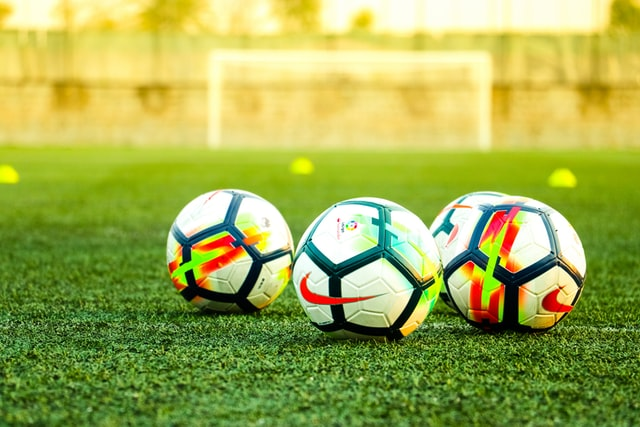
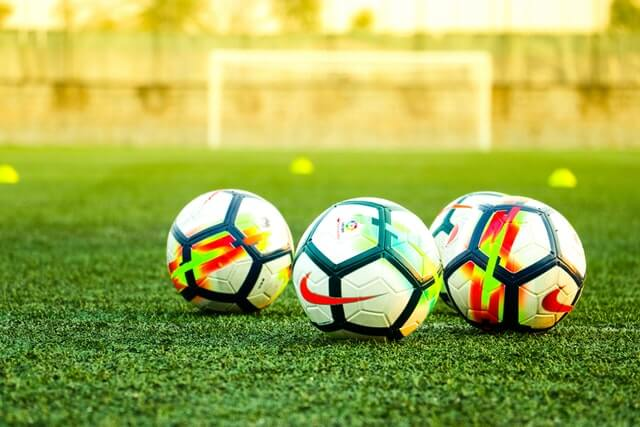
Recorte y redimension de imagenes
- Se redimensionaron algunas imagenes a un tamaño menor para que no
carguen una imagen grande cuando se vea pequeña
- Se cortaron algunas imagenes para que encajen con el espacio que
requieren
- Se establecio un ancho maximo a los productos y a las noticias para
que sus cards no se estiren demasiado.

diff --git a/index.html b/index.html
@@ -87,15 +87,21 @@
         <article class="i-b sm12 md4 lg2 mb_3 pv_15 md-mb_2 lg-mr_2 lg-mb_0 products__product">
           <a href="#products">
             <div class="m_auto mb_1 product__picture">
-              <img src="img/ball.png" alt="Balón UCL" class="product__img" loading="lazy">
-            </div>
+              <picture>
+                <source media="(max-width: 768px)" srcset="img/ball-w220.png">
+                <img src="img/ball.png" alt="Balón UCL" class="product__img" loading="lazy">
+              </picture>
+              </div>
             <h3 class="lg-h5 product__name">Balón UCL</h3>
           </a>
         </article>
         <article class="i-b sm12 md4 lg2 mb_3 pv_15 md-mr_2 lg-mb_0 products__product">
           <a href="#products">
             <div class="m_auto mb_1 product__picture">
-              <img src="img/thermo.png" alt="Termo 1lt" class="product__img" loading="lazy">
+              <picture>
+                <source media="(max-width: 767px)" srcset="img/thermo-w220.png">
+                <img src="img/thermo.png" alt="Termo 1lt" class="product__img" loading="lazy">
+              </picture>
             </div>
             <h3 class="lg-h5 product__name">Termo 1lt</h3>
           </a>
@@ -103,7 +109,11 @@
         <article class="i-b sm12 md4 lg2 mb_3 pv_15 lg-mb_0 products__product">
           <a href="#products">
             <div class="m_auto mb_1 product__picture">
-              <img src="img/scarf.jpeg" alt="Bufanda" class="product__img" loading="lazy">
+              <picture>
+                <source media="(max-width: 767px)" srcset="img/scarf-w220.jpeg">
+                <source media="(min-width: 768px)" srcset="img/scarf-w115.jpeg">
+                <img src="img/scarf.jpeg" alt="Bufanda" class="product__img" loading="lazy">
+              </picture>
             </div>
             <h3 class="lg-h5 product__name">Bufanda</h3>
           </a>
@@ -116,9 +126,13 @@
     <div class="container">
       <h2 class="mb_3 h1 center">Últimas noticias</h2>
       <div class="lg-flex lg-jc-space-around latest-news__cards">
-        <article class="card md-flex lg-block sm12 lg4 pb_15 mb_2 md-pb_0 lg-mh_1 lg-mb_0 news__card">
+        <article class="card md-flex lg-block sm12 lg4 m_auto pb_15 mb_2 md-pb_0 lg-mh_1 lg-mb_0 news__card">
           <div class="lg12 md5 card__picture">
-            <img src="img/news1.jpg" alt="Hospital" class="card__img" loading="lazy">
+            <picture>
+              <source media="(max-width: 767px)" srcset="img/news1-w440.jpg">
+              <source media="(min-width: 768px)" srcset="img/news1-w300.jpg">
+              <img src="img/news1.jpg" alt="Hospital" class="card__img" loading="lazy">
+            </picture>
           </div>
           <div class="md7 lg12 pv_05 ph_1 md-pv_1 md-ph_15 center md-left card__text">
             <div class="mb_15 left">
@@ -129,9 +143,13 @@
             <a href="#news" class="btn btn--primary pv_05 ph_3 h4 lg-h5 lg-center">Leer más</a>
           </div>
         </article>
-        <article class="card md-flex lg-block sm12 lg4 pb_15 mb_2 md-pb_0 lg-mh_1 lg-mb_0 news__card">
+        <article class="card md-flex lg-block sm12 lg4 m_auto pb_15 mb_2 md-pb_0 lg-mh_1 lg-mb_0 news__card">
           <div class="lg12 md5 card__picture">
-            <img src="img/news2.jpg" alt="boletos de entrada al estadio" class="card__img" loading="lazy">
+            <picture>
+              <source media="(max-width: 767px)" srcset="img/news2-w440.jpg">
+              <source media="(min-width: 768px)" srcset="img/news2-w300.jpg">
+              <img src="img/news2.jpg" alt="boletos de entrada al estadio" class="card__img" loading="lazy">
+            </picture>
           </div>
           <div class="md7 lg12 pv_05 ph_1 md-pv_1 md-ph_15 center md-left card__text">
             <div class="mb_15 left">
@@ -142,9 +160,13 @@
             <a href="#news" class="btn btn--primary pv_05 ph_3 h4 lg-h5 lg-center">Leer más</a>
           </div>
         </article>
-        <article class="card md-flex lg-block sm12 lg4 pb_15 mb_2 md-pb_0 lg-mh_1 lg-mb_0 news__card">
+        <article class="card md-flex lg-block sm12 lg4 m_auto pb_15 mb_2 md-pb_0 lg-mh_1 lg-mb_0 news__card">
           <div class="lg12 md5 card__picture">
-            <img src="img/news3.jpg" alt="copa del mundial" class="card__img" loading="lazy">
+            <picture>
+              <source media="(max-width: 767px)" srcset="img/news3-w440.jpg">
+              <source media="(min-width: 768px)" srcset="img/news3-w300.jpg">
+              <img src="img/news3.jpg" alt="copa del mundial" class="card__img" loading="lazy">
+            </picture>
           </div>
           <div class="md7 lg12 pv_05 ph_1 md-pv_1 md-ph_15 center md-left card__text">
             <div class="mb_15 left">
@@ -164,7 +186,12 @@
         <h2 class="mb_3 h1 center gallery__title">Galería</h2>
         <div class="gallery-container">
           <div class="gallery__item">
-            <img src="img/gallery1.jpg" alt="jugadores disputando un balón" class="gallery__img" loading="lazy">
+            <picture>
+              <source media="(max-width: 479px)"  srcset="img/gallery1-w140.jpg">
+              <source media="(max-width: 767px)"  srcset="img/gallery1-w155.jpg">
+              <source media="(min-width: 1024px)" srcset="img/gallery1-w255.jpg">
+              <img src="img/gallery1.jpg" alt="jugadores disputando un balón" class="gallery__img" loading="lazy">
+            </picture>
           </div>
           <div class="gallery__item">
             <img src="img/gallery2.jpg" alt="jugador por la banda" class="gallery__img" loading="lazy">
@@ -173,10 +200,16 @@
             <img src="img/gallery3.jpg" alt="estadio por la noche" class="gallery__img" loading="lazy">
           </div>
           <div class="gallery__item">
-            <img src="img/gallery4.jpg" alt="estadio con atardecer" class="gallery__img" loading="lazy">
+            <picture>
+              <source media="(min-width: 1024px)" srcset="img/gallery4-w390.jpg">
+              <img src="img/gallery4.jpg" alt="estadio con atardecer" class="gallery__img" loading="lazy">
+            </picture>
           </div>
           <div class="gallery__item">
-            <img src="img/gallery5.jpg" alt="estadio con afición" class="gallery__img" loading="lazy">
+            <picture>
+              <source media="(min-width: 768px)" srcset="img/gallery5-w155.jpg">
+              <img src="img/gallery5.jpg" alt="estadio con afición" class="gallery__img" loading="lazy">
+            </picture>
           </div>
           <div class="gallery__item">
             <img src="img/gallery6.jpg" alt="balones nike" class="gallery__img" loading="lazy">

diff --git a/css/styles.css b/css/styles.css
@@ -164,6 +164,7 @@ h6, .h6 { font-size: 1rem; }
 
 /* products */
 .products__product {
+  max-width: 320px;
   border-radius: 5px;
   box-shadow: 0 5px 10px -5px  var(--dark-bg);
 }
@@ -173,10 +174,13 @@ h6, .h6 { font-size: 1rem; }
   overflow: hidden;
 }
 
+/* news */
+.news__card { max-width: 320px; }
+
 /* gallery */
 .gallery-container {
   display: grid;
-  grid-template-columns: repeat(3, 1fr);
+  grid-template-columns: repeat(3, 1fr );
   grid-template-rows: repeat(4, 100px);
   grid-template-areas: "foto1 foto2 foto3"
                        "foto4 foto4 foto5"
@@ -265,11 +269,14 @@ h6, .h6 { font-size: 1rem; }
   }
 
   /* products */
+  .products__product { max-width: 220px; }
   .product__picture {
     width: 60%;
     height: 170px;
   }
-  .card__picture { height: 165px; }
+
+  /* news */
+  .news__card { max-width: 700px; }
 
   /* gallery */
   .gallery-container {
